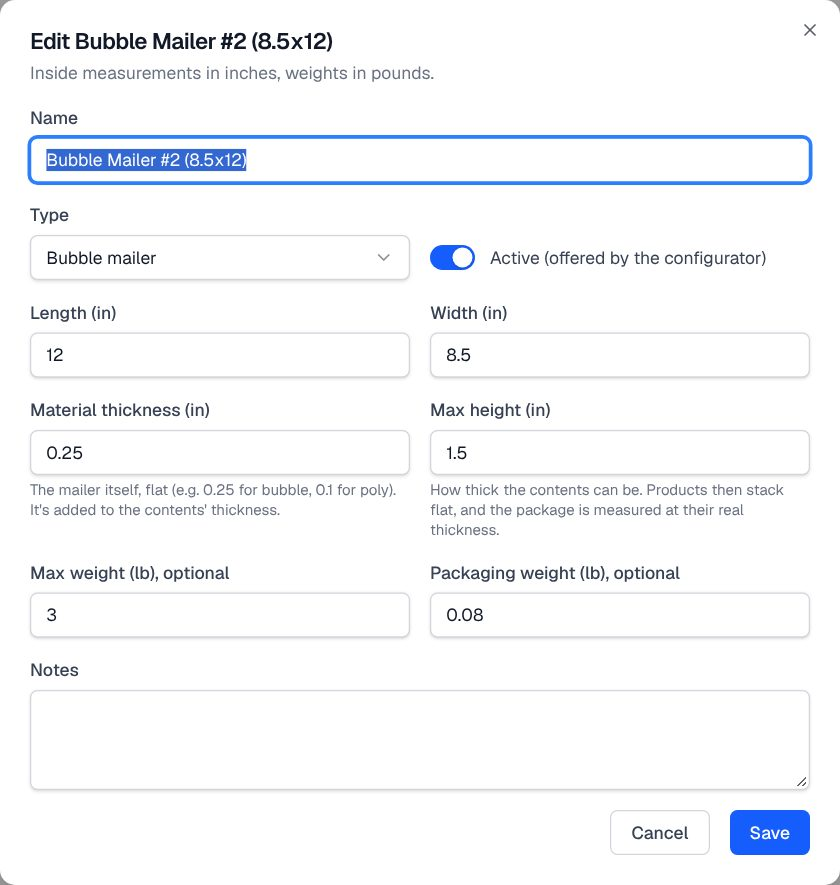
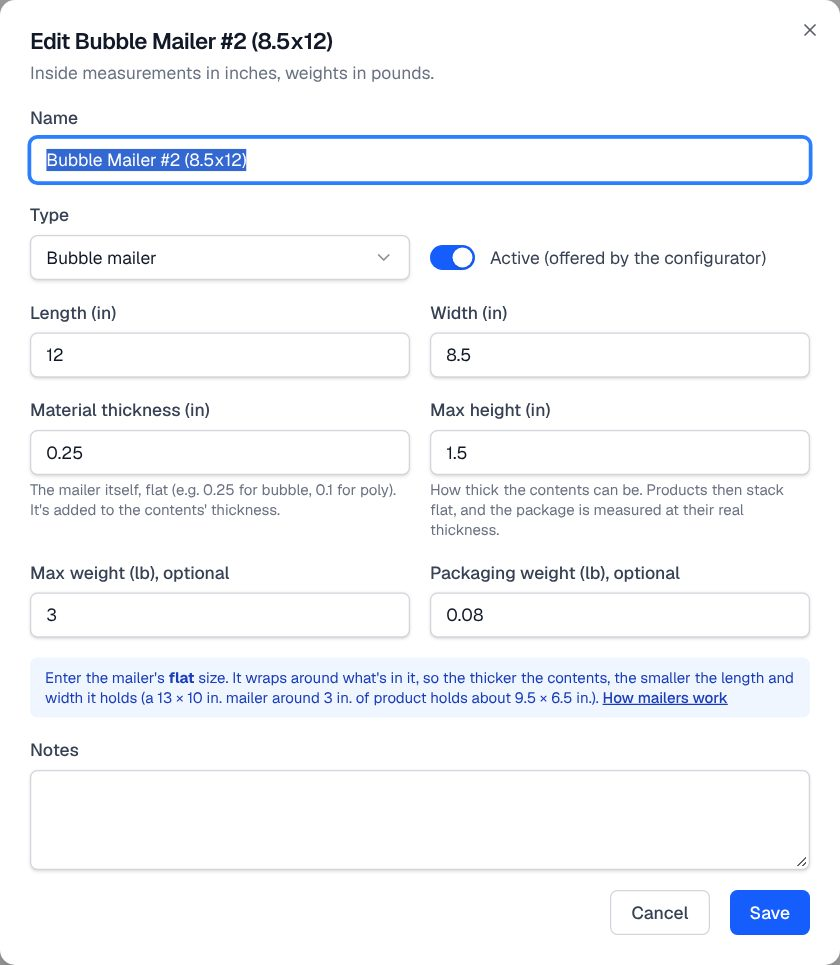
Help: "How mailers work" for the Packaging Configurator, with pointers
- Methodology: a section on mailers wrapping their contents (sealed size,
  largest footprint, max height, stacking, volume used), with a worked
  table for a 13 x 10 in. poly mailer at 0.5-3 in. thick.
- Pointers from the guide (Ships at), the settings page (Packaging) and the
  Packaging form (a hint for mailers, linking to the section); screenshot
  of the form retaken.

Claude-Session: https://claude.ai/code/session_01BEHV9ScssjWxbAnSVd5wjC

Changed region(s): [[0.031, 0.0305, 0.9905, 0.7932], [0.031, 0.8847, 0.9595, 0.9763], [0.4024, 0.5492, 0.4643, 0.5797]]

diff --git a/src/app/(app)/tools/packaging-configurator/packaging/packaging-client.tsx b/src/app/(app)/tools/packaging-configurator/packaging/packaging-client.tsx
@@ -121,6 +121,14 @@ function PackagingDialog({ row, onClose, onSaved }: { row: Row | null; onClose: 
               <Label htmlFor="pk-tw">Packaging weight (lb), optional</Label>
               <Input id="pk-tw" type="number" step="any" min={0} value={f.tareWeight} onChange={(e) => set({ tareWeight: e.target.value })} />
             </div>
+            {mailer && (
+              <p className="sm:col-span-2 rounded-md bg-blue-50 px-3 py-2 text-xs text-blue-800">
+                Enter the mailer&apos;s <strong>flat</strong> size. It wraps around what&apos;s in it, so the thicker the contents, the smaller the length and width it holds (a 13 × 10 in. mailer around 3 in. of product holds about 9.5 × 6.5 in.).{" "}
+                <a href="/help/packaging-configurator-methodology#how-mailers-work" target="_blank" rel="noreferrer" className="font-medium underline">
+                  How mailers work
+                </a>
+              </p>
+            )}
             <div className="sm:col-span-2">
               <Label htmlFor="pk-notes">Notes</Label>
               <Textarea id="pk-notes" rows={2} value={f.notes} onChange={(e) => set({ notes: e.target.value })} />

diff --git a/src/content/help/packaging-configurator-methodology.md b/src/content/help/packaging-configurator-methodology.md
@@ -21,7 +21,7 @@ Sides are compared largest to largest, so a product can turn any way.
 
 - **Boxes:** each product side plus the clearance must fit the matching inside side. Example: a 9 × 7 × 5 in. product needs 9.5 × 7.5 × 5.5 in. inside.
 - **Max height:** for mailers and flat-pack boxes, the max height (how thick the contents can be) stands in for the box's height.
-- **Bubble and poly mailers** (with a max height): a mailer wraps around what's in it, so each flat side loses the contents' thickness. The product's two largest sides **plus its thickness** plus clearance must fit the mailer's flat size, and its thickness plus clearance must be within the max height. With several items, the thickness is the whole stack. Example: a 9.5 × 8 × 3 in. product needs at least 13 × 11.5 in. flat (9.5 + 3 + 0.5 and 8 + 3 + 0.5), so a 13 × 10 in. mailer doesn't fit.
+- **Bubble and poly mailers** (with a max height): a mailer wraps around what's in it, so each flat side loses the contents' thickness (see *How mailers work* below). The product's two largest sides **plus its thickness** plus clearance must fit the mailer's flat size, and its thickness plus clearance must be within the max height. With several items, the thickness is the whole stack. Example: a 9.5 × 8 × 3 in. product needs at least 13 × 11.5 in. flat (9.5 + 3 + 0.5 and 8 + 3 + 0.5), so a 13 × 10 in. mailer doesn't fit.
 - **Several units or products:**
   - With a **max height**, items lie flat and stack: the thinnest sides add up, and the stack plus clearance must be within the max height.
   - Otherwise, by **volume**: all the items' volume must be within the box's inside volume × the pack efficiency. Example: a 480 in³ box at 70% takes 336 in³ of products.
@@ -50,6 +50,31 @@ Sides are compared largest to largest, so a product can turn any way.
   Example: a 9 × 6 in. bubble mailer (0.25 in. material) with a 0.5 in. product seals at 8.5 × 5.5 × 0.75 in.
 
 This **shipping size** is what the push writes to Salsify and the Bulk export shows.
+
+## How mailers work
+
+A bubble or poly mailer isn't a box with fixed sides. It's a flat envelope that **wraps around what's in it**, so the thicker the contents, the more of the envelope goes up and over them and the less is left for length and width:
+
+- **Sealed thickness** = the contents' (stacked) thickness + the mailer material.
+- **Sealed length and width** = the mailer's flat size **minus** the contents' thickness.
+- **Largest footprint it holds** = the sealed length and width minus the clearance. A product only fits if its two largest sides, plus its thickness, plus the clearance, fit the flat size.
+- **Thickest contents it takes** = the mailer's **max height** minus the clearance.
+
+Example: a **13 × 10 in. poly mailer** (0.1 in. material, max height 3.5 in.), with the default 0.5 in. clearance and DIM divisor 139:
+
+| Contents thick | Sealed size (L × W × H) | Largest footprint it holds | Sealed volume | DIM weight |
+| --- | --- | --- | --- | --- |
+| 0.5 in. | 12.5 × 9.5 × 0.6 in. | 12 × 9 in. | 71 in³ | 0.513 lb |
+| 1 in. | 12 × 9 × 1.1 in. | 11.5 × 8.5 in. | 119 in³ | 0.855 lb |
+| 2 in. | 11 × 8 × 2.1 in. | 10.5 × 7.5 in. | 185 in³ | 2 lb |
+| 3 in. | 10 × 7 × 3.1 in. | 9.5 × 6.5 in. | 217 in³ | 2 lb |
+
+What this means in practice:
+- **A mailer holds less than its flat size suggests.** At 3 in. thick, this 13 × 10 mailer takes a 9.5 × 6.5 in. footprint, not 13 × 10. A 9.5 × 8 × 3 in. product doesn't fit it, though its footprint fits the flat mailer easily.
+- **Volume grows more slowly than thickness.** Going from 1 to 3 in. thick triples the thickness, but the sealed volume (and the DIM weight) less than doubles, because the length and width shrink.
+- **Several items stack:** their thinnest sides add up to the contents' thickness, so each extra item shrinks the footprint for all of them.
+- **Max height** (set on the Packaging tab) is how thick the contents can be. Above it the mailer won't close, whatever the footprint.
+- **Volume used** for a mailer is measured against its sealed size, so a well-filled mailer reads close to 100%, and never over it.
 
 ## 5. Weights
 

diff --git a/src/content/help/packaging-configurator.md b/src/content/help/packaging-configurator.md
@@ -27,7 +27,7 @@ To paste a long list, use **Import from Excel** with a sheet that has *Part Numb
 - **Packaging options**, best first. Each card shows:
   - **Best fit** (green) on the top card, the packaging's type and a **fit badge**: *Exact fit* (90% or more of the space used), *Good fit* (60–90%), *Loose fit* (35–60%) or *Oversized* (under 35%).
   - **Volume used:** how full it is.
-  - **Ships at:** for mailers, the sealed size (a mailer shrinks around what's in it).
+  - **Ships at:** for mailers, the sealed size. A mailer wraps around what's in it, so the thicker the contents, the smaller its length and width. See [How mailers work](/help/packaging-configurator-methodology#how-mailers-work).
   - **Products, Packaging, Actual weight, DIM weight, Billed weight.** DIM weight is amber when it's more than the actual weight.
   - **Shipping methods:** each method that takes this billed weight, with the weight it bills, a **DIM** tag when it bills by dimensional weight, and its price from the rate card. The cheapest is marked **Cheapest**.
   - Warnings for a loose fit, for DIM on every method, and for going **over the packaging's weight limit**. Options over their limit are always listed last.

diff --git a/src/content/help/packaging-configurator-admin.md b/src/content/help/packaging-configurator-admin.md
@@ -17,6 +17,7 @@ Give these in **Admin → Roles**. Anyone who starts a sync or push uses their o
 - **Type:** Box, Bubble mailer, Poly mailer or Other.
 - **Length, Width, Height:** inside measurements in inches. For a mailer, *Height* is the **material thickness** (about 0.25 in. for bubble, 0.1 in. for poly).
 - **Max height:** how thick the contents can be. **Required for mailers.** For a box it's optional: set it for flat-pack boxes, so products stack flat and the package is measured at their real thickness.
+- **Mailers shrink as they fill:** enter a mailer's **flat** size. The thicker the contents, the less length and width are left (a 13 × 10 in. mailer around 3 in. of product holds a 9.5 × 6.5 in. footprint). See [How mailers work](/help/packaging-configurator-methodology#how-mailers-work).
 - **Max weight** and **Packaging weight** (its own weight, added to the actual weight).
 - **Active:** turn an option off to stop offering it without deleting it.
 
